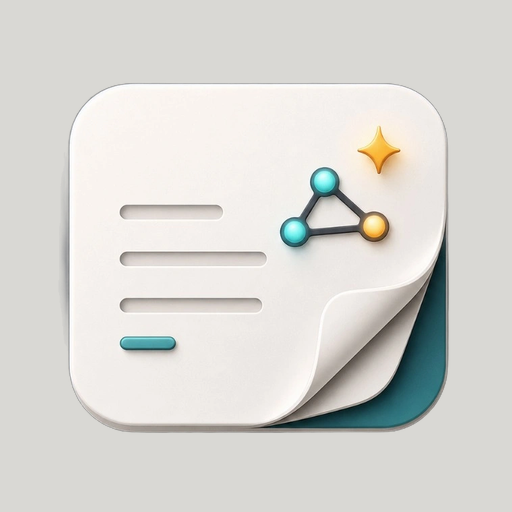
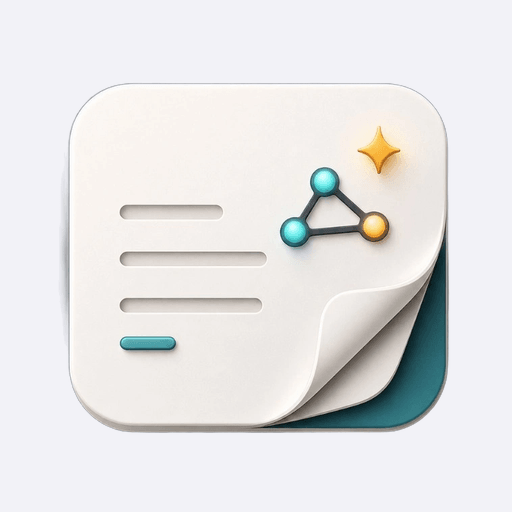
fix(pwa): 启动屏图标底色同源 + 首帧背景兜底
- maskable 底色从源图不透明均色 rgb(217,216,212) 改为 #f2f2f7（= manifest
  background_color = --bg-color）：Edge 启动屏把图标按正方形原样画出、不套
  蒙版，底色差一级就会显出一块灰砖。三档候选 1:1 合到启动屏底色实测对比：
  #f2f2f7 边界完全消失，中位色 #f1ede9 仍有暖边，均色最刺眼
- index.html 内联样式按 data-theme 给 html 上色，消除 styles.css 到达前
  那一帧 UA 白底（慢网/暗色主题下会闪白）
- apple-touch-icon 改用不透明 maskable（any 图 contain 后有 15px/13px 透明条，
  iOS 会把透明区按黑底处理）
- 图标产物改走调色板 PNG：192 48->16KB、512 248->72KB、maskable 174->50KB
- test:pwa-cache 新增四条断言：真实像素尺寸 == 声明 sizes、maskable 四角
  不透明且等于 background_color（已用旧产物反向验证会失败）、单图标 <120KB、
  首帧背景样式块与 background_color 同源

diff --git a/test/test_pwa_cache_regression.js b/test/test_pwa_cache_regression.js
@@ -136,9 +136,63 @@ assert(serviceWorker.includes('/Assets/dumbpad-icon-192.png'), 'service worker s
 
 const indexHtml = fs.readFileSync(path.join(root, 'public', 'index.html'), 'utf8');
 assert(indexHtml.includes('viewport-fit=cover'), 'index.html must opt into notch safe-area insets via viewport-fit=cover');
+const themeColorMetas = [...indexHtml.matchAll(/<meta[^>]*name="theme-color"[^>]*>/g)].map(match => match[0]);
+assert(themeColorMetas.length >= 2, 'index.html should carry light/dark theme-color metas for status bar tinting');
 assert(
-    (indexHtml.match(/<meta name="theme-color"/g) || []).length === 2,
-    'index.html should carry light/dark theme-color metas for status bar tinting'
+    themeColorMetas.some(tag => tag.includes('prefers-color-scheme: light')) &&
+    themeColorMetas.some(tag => tag.includes('prefers-color-scheme: dark')),
+    'theme-color metas must cover both light and dark color schemes'
+);
+// 首帧背景：styles.css 到达前画布是 UA 默认白底，必须由内联样式兜住，
+// 且亮色值要和 manifest 的 background_color 同源（启动屏 → 首帧不跳色）。
+assert(
+    indexHtml.includes(`html { background: ${pwaManifest.background_color}; }`) &&
+    indexHtml.includes('html[data-theme="dark"] { background: #1c1c1e; }'),
+    'index.html must paint the first frame background from the inline theme style block'
 );
 
-console.log('PWA cache regression checks passed');
+// 图标必须是"声明即真实"的方形。只断言 manifest 里的 sizes 抓不到这类失真：
+// 改动前 dumbpad-192.png 实际 118x109、dumbpad-512.png 实际 608x558，而
+// manifest 声明 192x192/512x512 —— 旧断言同样全绿。
+(async () => {
+    const sharp = require('sharp');
+    const assetsDir = path.join(root, 'public', 'Assets');
+
+    for (const icon of pwaManifest.icons) {
+        const filePath = path.join(assetsDir, icon.src);
+        const meta = await sharp(filePath).metadata();
+        const [declaredWidth, declaredHeight] = icon.sizes.split('x').map(Number);
+        assert.strictEqual(meta.width, declaredWidth, `${icon.src} 实际宽度 ${meta.width} 与声明的 ${icon.sizes} 不符`);
+        assert.strictEqual(meta.height, declaredHeight, `${icon.src} 实际高度 ${meta.height} 与声明的 ${icon.sizes} 不符`);
+        // 图标是渐变+噪点的照片质感图，调色板量化后 512 约 70KB；超过 120KB
+        // 说明又退回了未压缩的真彩色 PNG（曾达 247KB）。
+        const { size } = fs.statSync(filePath);
+        assert(size < 120 * 1024, `${icon.src} 体积 ${Math.round(size / 1024)}KB 超出 120KB 预算，图标应走调色板 PNG`);
+    }
+
+    // maskable 四角必须是不透明的 background_color：Edge 的启动屏把图标按正方形
+    // 原样画出（不套蒙版），底色只要和启动屏底色差一级，就会显出一块砖。
+    const maskable = pwaManifest.icons.find(icon => icon.purpose === 'maskable');
+    const { data, info } = await sharp(path.join(assetsDir, maskable.src))
+        .ensureAlpha()
+        .raw()
+        .toBuffer({ resolveWithObject: true });
+    const expected = pwaManifest.background_color.replace('#', '').match(/../g).map(part => parseInt(part, 16));
+    const corners = [[0, 0], [info.width - 1, 0], [0, info.height - 1], [info.width - 1, info.height - 1]];
+    for (const [x, y] of corners) {
+        const offset = (y * info.width + x) * info.channels;
+        assert.strictEqual(data[offset + 3], 255, 'maskable 四角必须不透明，否则启动屏/蒙版下会露出透明角');
+        for (let channel = 0; channel < 3; channel += 1) {
+            assert(
+                Math.abs(data[offset + channel] - expected[channel]) <= 1,
+                `maskable 底色 rgb(${data[offset]},${data[offset + 1]},${data[offset + 2]}) 必须等于 background_color ${pwaManifest.background_color}`
+            );
+        }
+    }
+
+    console.log('PWA cache regression checks passed');
+})().catch((error) => {
+    console.error(error);
+    process.exitCode = 1;
+});
+

diff --git a/scripts/generate-maskable-icon.js b/scripts/generate-maskable-icon.js
@@ -1,6 +1,6 @@
 // 从用户源图（public/Assets/dumbpad-512.png，实际 608x558 非方形）派生
 // 尺寸声明真实的 PWA 图标：192/512 "any" 方形画布 + 512 "maskable"（安卓
-// 桌面圆形裁切安全区）。源图只读不改，产物可随时重跑覆盖。
+// 桌面蒙版裁切安全区）。源图只读不改，产物可随时重跑覆盖。
 // 用法：node scripts/generate-maskable-icon.js
 const path = require("path");
 const sharp = require("sharp");
@@ -10,39 +10,29 @@ const SOURCE_ICON = path.join(ASSETS_DIR, "dumbpad-512.png");
 // maskable 安全区：关键内容须落在画布中央 80% 的圆内（任意蒙版下可见）。
 const SAFE_ZONE_RATIO = 0.8;
 const CONTAIN_BG = { r: 0, g: 0, b: 0, alpha: 0 };
+// maskable 底色必须与 manifest 的 background_color、ios-theme.css 的
+// --bg-color 完全一致。Edge 的启动屏把图标按正方形原样画出（不套蒙版），
+// 底色只要差一级就会在启动屏上显出一块砖：实测取源图不透明均色是
+// rgb(217,216,212)，与 #f2f2f7 差 25 级，启动屏上肉眼非常明显。
+const MASKABLE_BACKGROUND = "#f2f2f7";
+// 图标是渐变+噪点的照片质感图，调色板量化能把 192 从 48KB 压到 ~14KB、
+// 512 从 248KB 压到 ~70KB，观感无可见损失（256 色足够这张图）。
+const ICON_PNG = { palette: true, quality: 88, compressionLevel: 9 };
 
-// 取全图不透明像素的均色作为 maskable 底色：图标主体是纸面白，源图将来
-// 重导出后底色仍会自动跟随，不会留出一圈异色描边。
-async function averageOpaqueColor(image) {
-    const { data, info } = await image.clone().raw().toBuffer({ resolveWithObject: true });
-    let r = 0;
-    let g = 0;
-    let b = 0;
-    let count = 0;
-    for (let i = 0; i < data.length; i += info.channels) {
-        if (data[i + 3] < 200) continue;
-        r += data[i];
-        g += data[i + 1];
-        b += data[i + 2];
-        count += 1;
-    }
-    if (!count) throw new Error("source icon has no opaque pixels to sample a background from");
-    return {
-        r: Math.round(r / count),
-        g: Math.round(g / count),
-        b: Math.round(b / count)
-    };
+function hexToRgb(hex) {
+    const value = parseInt(hex.replace("#", ""), 16);
+    return { r: (value >> 16) & 255, g: (value >> 8) & 255, b: value & 255 };
 }
 
 async function main() {
     const source = sharp(SOURCE_ICON);
-    const background = await averageOpaqueColor(source);
+    const background = hexToRgb(MASKABLE_BACKGROUND);
 
     // "any" 用途：等比收进正方形画布、透明填充。只修正尺寸声明，不改变观感。
     for (const size of [192, 512]) {
         await source.clone()
             .resize(size, size, { fit: "contain", background: CONTAIN_BG })
-            .png()
+            .png(ICON_PNG)
             .toFile(path.join(ASSETS_DIR, `dumbpad-icon-${size}.png`));
     }
 
@@ -56,10 +46,10 @@ async function main() {
         create: { width: 512, height: 512, channels: 4, background: { ...background, alpha: 1 } }
     })
         .composite([{ input: content, gravity: "center" }])
-        .png()
+        .png(ICON_PNG)
         .toFile(path.join(ASSETS_DIR, "dumbpad-maskable-512.png"));
 
-    console.log(`Generated dumbpad-icon-192.png, dumbpad-icon-512.png, dumbpad-maskable-512.png (maskable background rgb(${background.r}, ${background.g}, ${background.b}))`);
+    console.log(`Generated dumbpad-icon-192.png, dumbpad-icon-512.png, dumbpad-maskable-512.png (maskable background ${MASKABLE_BACKGROUND})`);
 }
 
 main().catch((error) => {

diff --git a/public/index.html b/public/index.html
@@ -7,8 +7,13 @@
     <meta name="theme-color" media="(prefers-color-scheme: light)" content="#f2f2f7">
     <meta name="theme-color" media="(prefers-color-scheme: dark)" content="#1c1c1e">
     <title id="page-title">DumbPad - Simple Notes</title>
+    <!-- 首帧背景：styles.css 到达前画布是 UA 默认白底，慢网/暗色主题下会闪一帧
+         白。这里按 data-theme 直接给 html 上色，主题内联脚本写入属性后立即生效。 -->
+    <style>html { background: #f2f2f7; } html[data-theme="dark"] { background: #1c1c1e; }</style>
     <link rel="icon" type="image/png" href="Assets/dumbpad-icon-192.png">
-    <link rel="apple-touch-icon" href="Assets/dumbpad-icon-192.png">
+    <!-- 用不透明的 maskable 而非带透明上下边的 any 图：iOS 会把 apple-touch-icon
+         的透明区按黑底处理，any 图 contain 后有 15px/13px 透明条。 -->
+    <link rel="apple-touch-icon" href="Assets/dumbpad-maskable-512.png">
     <link rel="stylesheet" href="Assets/styles.css">
     <link rel="stylesheet" href="Assets/preview-styles.css">
     <!-- 代码块浅色 token 配色（暗色覆盖在 styles.css [data-theme=dark] 规则内）。

diff --git a/CHANGELOG.md b/CHANGELOG.md
@@ -20,6 +20,7 @@
 
 ### 修复
 
+- **PWA 启动屏：图标底色与启动屏同源、首帧背景兜底、图标体积腰斩**：真机截图暴露两处加载界面问题。① maskable 图标底色原先取源图不透明像素**均色** `rgb(217,216,212)`，而 Edge 的启动屏把图标按正方形原样画出（不套蒙版），于是启动屏上出现一块比底色深 25 级的「灰砖」。现在底色固定为 `#f2f2f7`（= manifest `background_color` = `ios-theme.css` 的 `--bg-color`）；三档候选按 1:1 合到启动屏底色上实测对比：`#f2f2f7` 方块边界完全消失，中位色 `#f1ede9` 仍可见一圈暖边，均色最刺眼。② `styles.css` 到达前画布是 UA 默认白底，慢网与暗色主题下会闪一帧白；`index.html` 新增内联样式按 `data-theme` 直接给 `html` 上色，主题内联脚本写入属性后立即生效。顺带把 `apple-touch-icon` 从「contain 后有 15px/13px 透明条」的 any 图换成不透明的 maskable（iOS 会把 apple-touch-icon 的透明区按黑底处理），并把图标产物改走调色板 PNG：192 48KB→16KB、512 248KB→72KB、maskable 174KB→50KB（PSNR 28–30dB，肉眼看不出量化），三个图标合计 469KB→137KB。回归：`test:pwa-cache` 新增四条断言——「manifest 声明的 sizes == sharp 读出的真实像素」（旧断言只比对 manifest 里的字符串，改动前 118×109 声明 192×192 同样全绿）、「maskable 四角必须是不透明的 `background_color`」（已用旧产物反向验证该断言会失败）、「图标单文件 < 120KB」、「首帧背景样式块与 `background_color` 同源」。
 - **PWA 安装观感对齐原生应用（Edge Android 标题栏根因 + 图标尺寸声明失真 + 死链快捷方式）**：对标同为 Edge 安装、manifest 极简且无 Service Worker 也照样沉浸的 AIHOT 逐项排查后修三处主因。① `display_override: ["window-controls-overlay", "minimal-ui"]` 按「第一个被支持的模式」解析，Edge Android 支持 `minimal-ui`，安装出的应用因此带「标题 + 域名」标题栏；现在删除该字段只保留纯 `standalone`，并补 `id: "/"`、`scope: "/"`。② 全部图标尺寸声明失真——`dumbpad-192.png` 实际 118×109，`dumbpad-512.png`/`dumbpad.png`/`favicon-512.png`/`favicon-64.png` 实际 608×558（manifest 却声明 192/512 方形），新增 `scripts/generate-maskable-icon.js`（用已有依赖 sharp，源图只读）派生真实方形的 `dumbpad-icon-192.png`/`dumbpad-icon-512.png` 与 `dumbpad-maskable-512.png`（内容收进 80% 安全区、底色取源图不透明均色），manifest 图标全部改指派生产物并新增 maskable 条目（安卓圆形裁切不再白边垫底）；index.html 的 favicon/apple-touch-icon 改指 192 派生图，login.html 引用的源图原样保留。③ 两个长按快捷方式是死链（前端从不处理 `?action=`）：「新建草稿」改指 `/#today`（workspace 路由已支持），「全文搜索」保留 `/?action=search` 并在 app.js 启动时打开命令面板、随后 `history.replaceState` 清参防刷新重弹。顺带：`theme_color`/`background_color` 从 `#0f172a`（与浅色 UI 冲突，启动先闪深色屏）改为界面底色 `#f2f2f7`；index.html viewport 补 `viewport-fit=cover`（刘海/手势区的 `env(safe-area-inset-*)` 由此生效）；theme-color meta 拆亮/暗两条，在主题内联脚本与运行时切换处同步覆盖（Edge/Chrome Android 状态栏着色跟随主题）；`/manifest.json`、`/asset-manifest.json` 补 `Cache-Control: no-cache`（原裸 sendFile 只有启发式缓存）；Service Worker 预缓存剔除无 SW 控制页引用的图标副本（`dumbpad.png`/`dumbpad-192.png`/`dumbpad-512.png`/`favicon-512.png` → 仅保留 192 派生图），安装下载减少约 730KB。回归：`test:pwa-cache` 新增 manifest 形状（无 display_override、id/scope、亮色 theme、any+maskable 图标、shortcuts 真实路由）、预缓存图标清单与 index.html（viewport-fit、双 theme-color）断言；`test:startup-performance`、`test:api`、`npm run check`（335 文件 + 启动冒烟）全绿。**真机验收**：Edge 安卓需卸载重装（manifest 在安装时快照），核对标题栏消失、启动屏颜色、刘海适配与长按快捷方式直达。
 - **安全专项加固（全栈审计后十项，逐项带回归）**：对前后端做一轮安全/性能审计后修掉确认成立的问题。① **legacy 模式 PIN 配置错误不再静默关掉鉴权**：`DUMBPAD_PIN` 设了但格式非法（非 4–10 位数字）时，旧实现按「未配置」处理——首页与全部 `/api`（含数据管理）整体免鉴权且无任何告警；现在启动即 `FATAL` 退出（`.env.example` 同步说明），合法格式行为不变。② **`POST /api/data-management/s3/backup` 补覆盖守卫**：非 dry-run 备份过去可把源 prefix 的同名键覆盖写到任意 `backupPrefix`（穿透数据集隔离边界），现在备份目标非空时视同破坏性操作——要求 `DUMBPAD_ENABLE_DESTRUCTIVE_DATA_OPERATIONS=true` 且 `confirmBackupPrefix` 与目标完全一致，并补审计事件；备份到空 prefix 保持免开关（前端确认弹窗文案同步区分），契约见 `docs/api.md`。③ **`s3-overwrite-local` 灾备恢复不再毁损二进制资产**：恢复循环过去把 S3 对象按 UTF-8 解码成字符串再写盘，`assets/<id>/original` 等非 UTF-8 字节流被 U+FFFD 不可逆替换；改走 `getObjectBuffer` 字节级落盘，新增字节级一致断言。④ **回收站全链路加锁**：`restoreTrashItem`（notepad/thought 元数据读改写）过去完全无锁、trash 索引读改写与三大域锁互相竞争（并发恢复+删除可丢条目/复活条目/丢边）；现在 restore 按类型进 notepad/thought 锁、thought 恢复在路由层再取 AI 管线共享的 relation 锁、trash 索引新增独立短锁（锁序 {notepad,thought}→relation→trash，无环）。⑤ **`/api/auth/elevate`（及 `setup/confirm`、`recovery/confirm`）补 IP 限速**：session 被劫持时 elevate 是拦在破坏性操作前的唯一因子，过去可全速穷举 TOTP；现在与 `/api/auth/login` 共用同一套 5 次/15 分钟锁定。⑥ **恢复流程吊销旧凭据**：`recover()` 过去只轮换 TOTP——旧 session（30 天）与受信设备 token（60 天）在「凭据可能已泄露」的恢复之后依然有效；现在恢复会清空全部既有会话与受信设备（API token 保持可管理不清除），测试断言同步反转。⑦ **限速键不再吃伪造的 X-Forwarded-For**：`TRUST_PROXY=true` 且未配 `TRUSTED_PROXY_IPS` 时 `getClientIp` 过去回退用 XFF 首段（与 server.js 对 Express 的 fail-closed 处理相悖），每请求换一个头即可绕过登录限速并让 attempts 表无界增长；现在该配置一律退回 socket IP，配置了可信列表时改为从右往左走链（客户端预置伪造段不再生效），`loginAttempts` Map 加 1 万条硬上限。⑧ **免鉴权端点不再吃 50MB JSON**：全局 body 限制 50MB 收紧为 1MB，仅 `/api/notes`、`/api/thoughts`、`/api/notepads`、`/api/instant-drafts`（含 today-drafts alias）五个内容前缀保留 50MB（实测：免鉴权 2MB JSON → 413，带鉴权 2MB 笔记 → 200）。⑨ **Thought 写入补类型守卫**：`overwrite`/`update_subitem`/创建路径过去接受对象型 `text`/非数组 `subItems`/混合型 `tags`，一次 PATCH 即可让列表与搜索对整库 `toLowerCase` 永久 500 且无自愈；现在 400 拒绝。⑩ **杂项收紧**：`GET /api/pin-required` 不再回传 PIN 精确长度（免鉴权端点暴露长度等于缩小爆破空间，openapi/文档同步）；分享页 token 比较改常数时间；data-management 5xx 响应回固定文案（S3/文件系统错误细节只进服务端日志）；私有资产响应 `Cache-Control` 从 `public` 改 `private`（防共享缓存层在反代/CDN 后串权限）。前端复制全文/打印路径新增 `markdown-html-sanitizer.js`（DOM 白名单净化，语义对齐分享页 sanitizer）：marked 15 无消毒输出过去直接进 `innerHTML`/`document.write`，源码模式下经 WS 推送的原文可携带事件属性在点按复制/打印时执行；打印窗口标题同步转义。回归：新增 `test:data-management`（backup 守卫五态 + 二进制恢复字节级断言）、`test:trash-lock`（并发丢更新/复活不变式）、`test:ip-extractor`（七态走链断言）、`test:thought-write-guard`（四类 400 + 合法路径不变）、`test:markdown-sanitizer`（jsdom 14 项）并纳入 `npm test`；`test:auth-service`/`test:auth_routes`/`test:auth_sliding_renewal` 断言随 recover 语义更新，`test_s3_storage_regression`/`test_s3_real_smoke` 改用合法 PIN + Bearer（旧值利用的正是 ① 的 fail-open）。
 - **OpenAPI 契约与实现对齐（三处会让调用方只能靠猜的偏差）**：① **`NotePatch` 错把 `content` 标成必填**——它原先用 `allOf` 继承 `NoteSave`，而 `NoteSave` 的 `required` 是 `["content"]`，于是契约上连 `append` 都必须带正文；但 9 种 action 没有一种读 `content`（payload 一律走 `text` / `target` / `replacement`），实现也从不校验。现在 `NotePatch` 改为独立 schema，`required` 只有 `["action"]`，`content` 降为可选并写明「发送它没有任何效果，仅为兼容 NoteSave 的形状」。② **`GET /api/notepads` 的过滤与排序参数未声明**——`title`（大小写不敏感子串过滤）、`sortBy`（默认 `updatedAt`）、`order`（默认降序）在 handler 里真实存在，契约却是空 `parameters`，Agent 只能从示例里抄。现在三个参数都进契约并写明语义（尤其 `order` 只有 `asc` 会反转，其余一律降序）。③ **契约版本号与发布版本漂移**——`info.version` 停在 `1.0.9`，`package.json` 已是 `1.1.0`，缓存了 `openapi.json` 的调用方无法感知契约变化。现在对齐到 `package.json`，并在 `test:api` 里加断言把两者钉死，以后再漂移会直接测试失败。回归：`npm run test:api`（新增版本等式、`NotePatch.required`、`allOf` 已移除、notepads 参数表四条断言）。
